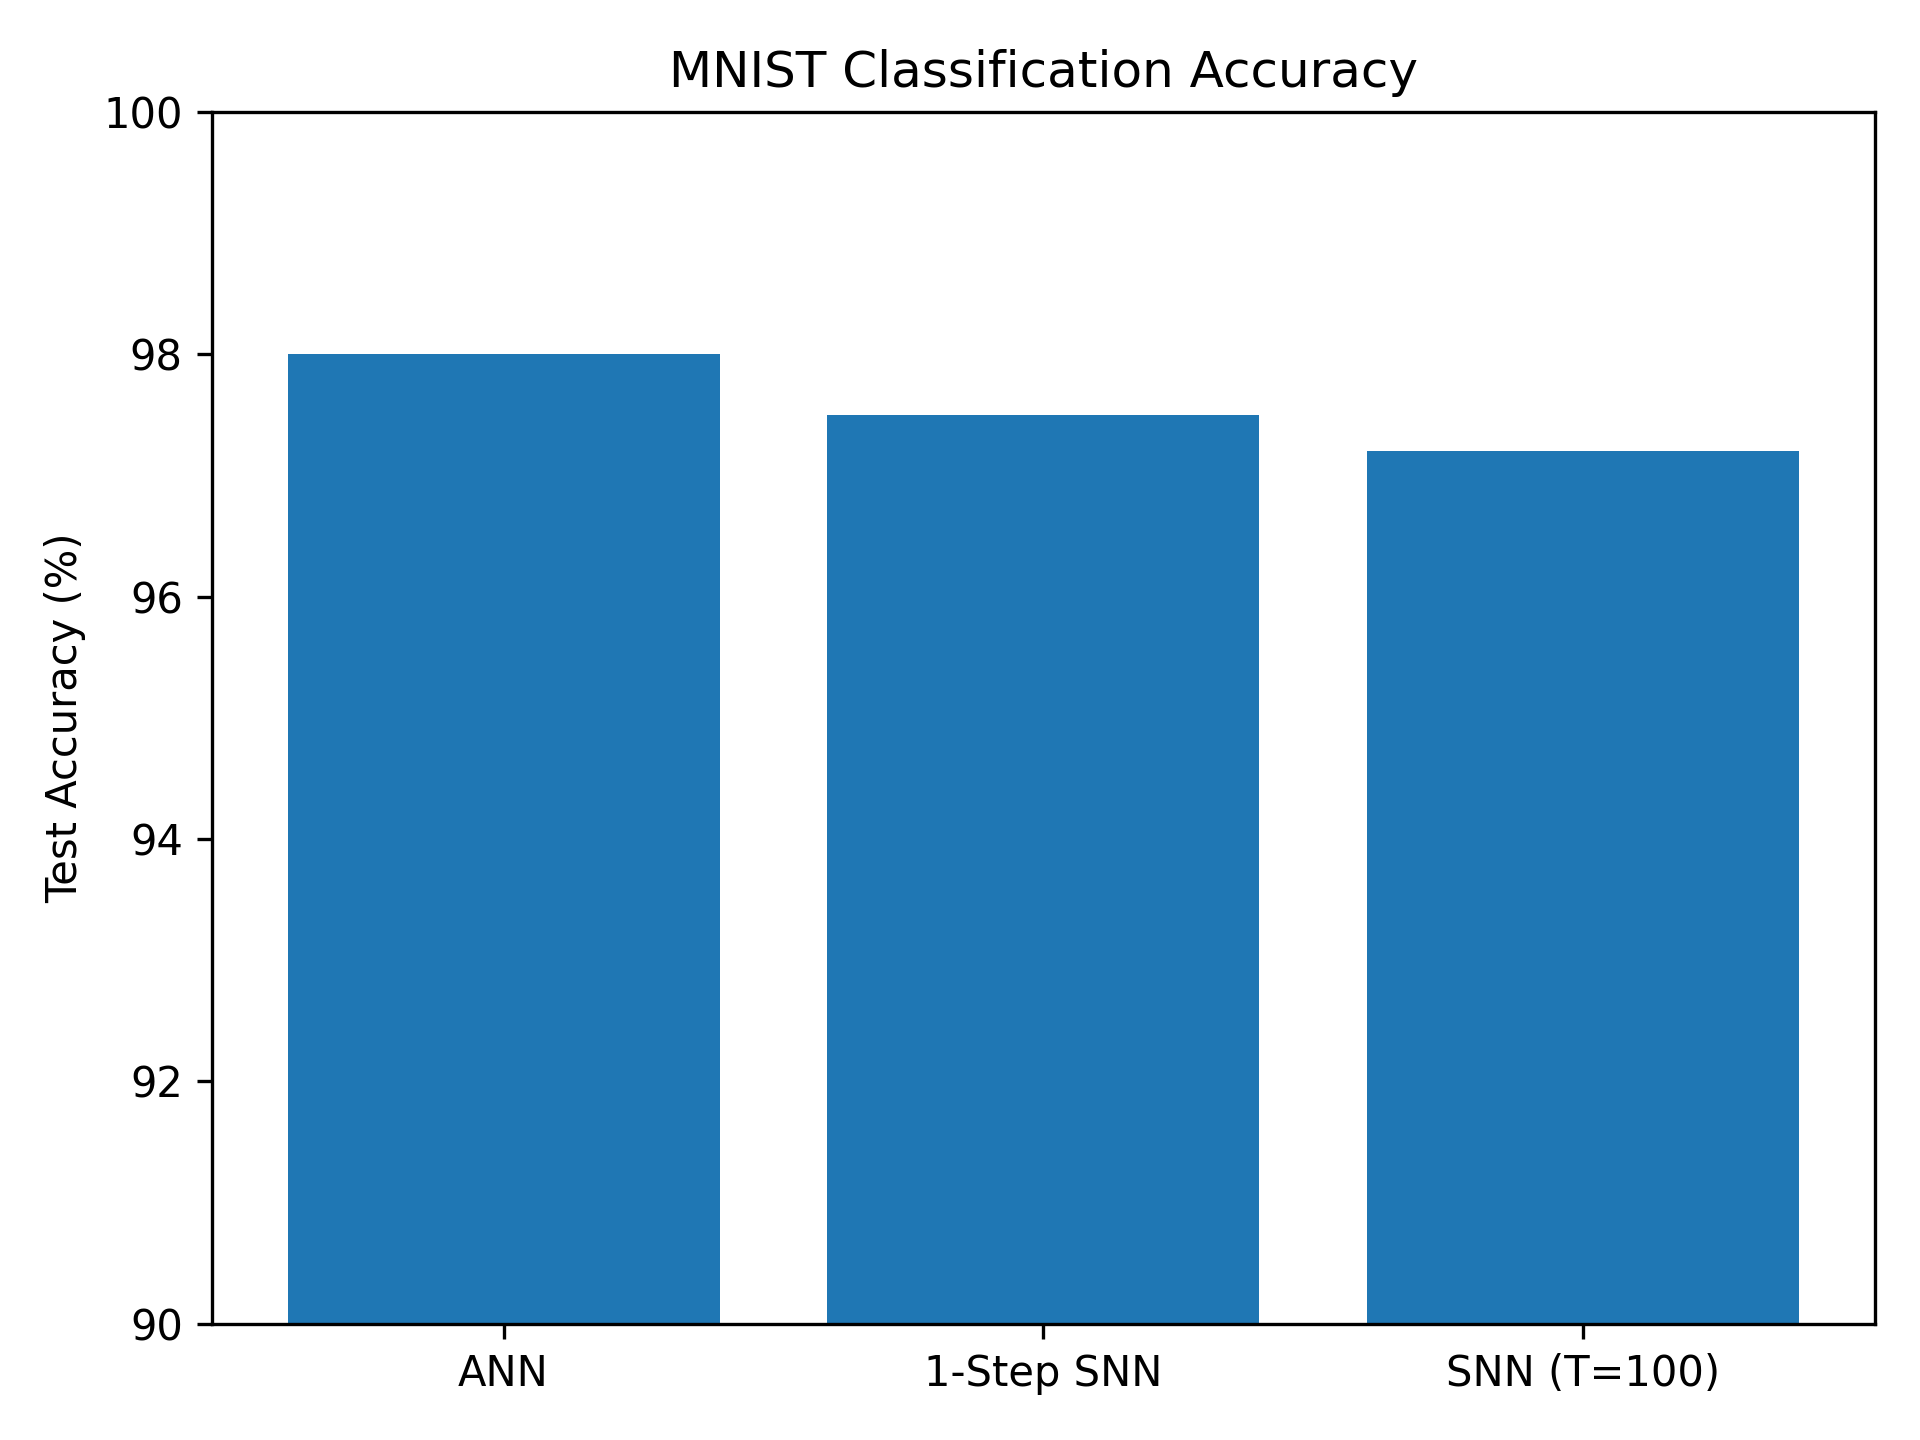
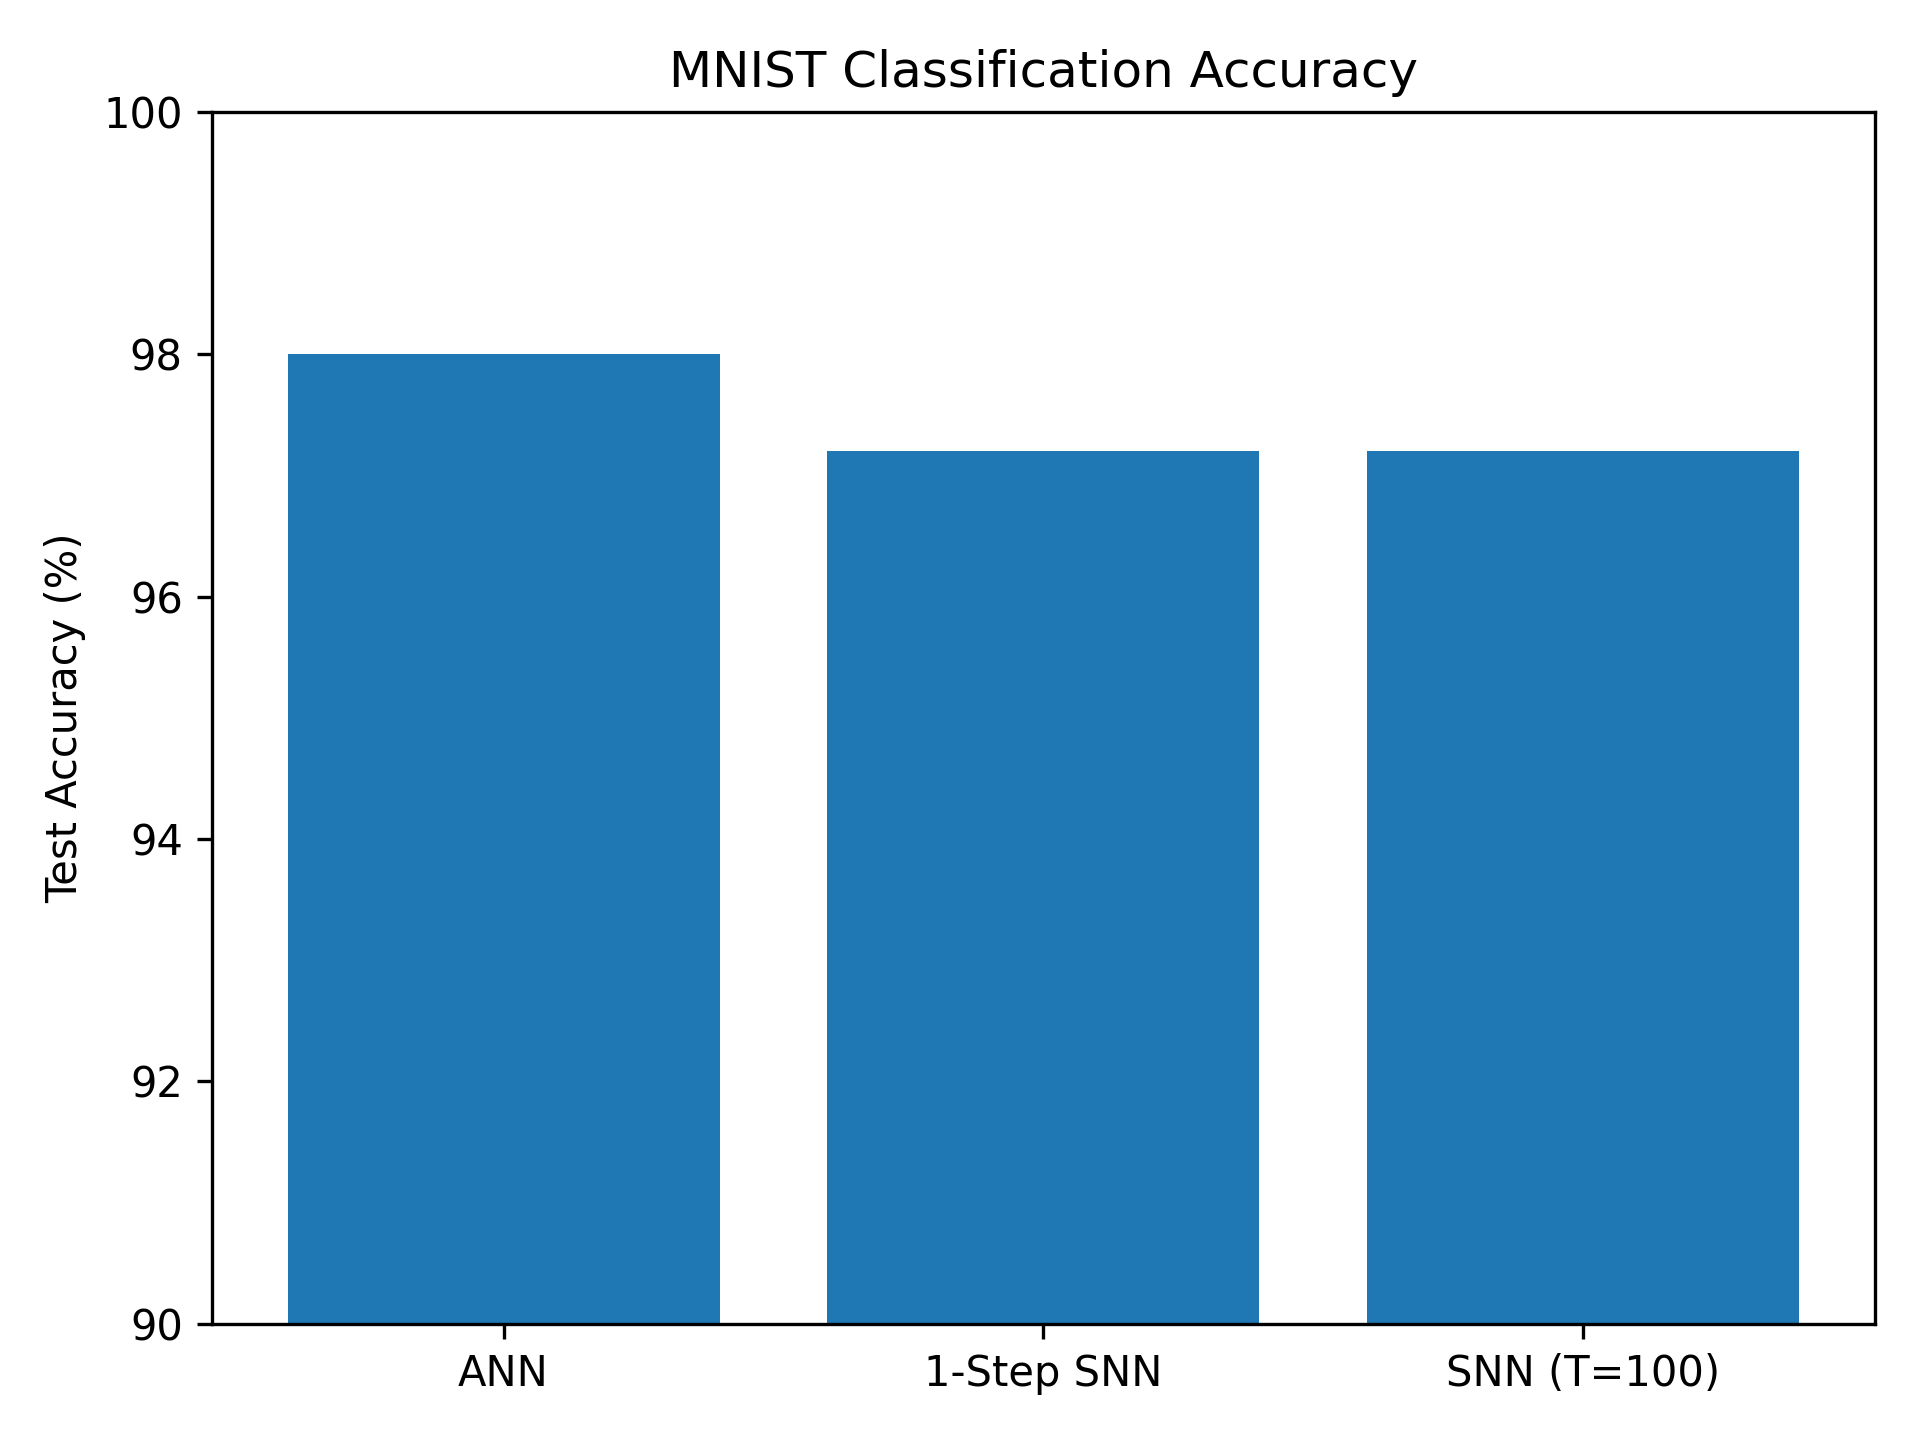
Various graphing code added

Changed region(s): [[0.4062, 0.2812, 0.6562, 0.3125]]

diff --git a/scripts/train_SNN.py b/scripts/train_SNN.py
@@ -4,7 +4,21 @@ from snntorch import spikegen
 from torchvision import datasets, transforms
 from torch.utils.data import DataLoader
 from models.SNN_model import MNIST_SNN
+import random
+import numpy as np
+from pathlib import Path
+import json
 # Imports
+
+PROJECT_ROOT = Path(__file__).resolve().parent.parent
+RESULTS_DIR = PROJECT_ROOT / "results"
+RESULTS_DIR.mkdir(exist_ok=True)
+# Establish data results path
+
+torch.manual_seed(0)
+random.seed(0)
+np.random.seed(0)
+# For higher levels of consistency
 
 """
 Train + evaluate the full SNN.
@@ -60,6 +74,7 @@ optimizer = torch.optim.Adam(
 
 
 def train_SNN(model, training_loader, device, num_epochs, num_steps):
+    epoch_loss = []
     for epoch in range(num_epochs):
         iteration = 0
         model.train()
@@ -84,6 +99,9 @@ def train_SNN(model, training_loader, device, num_epochs, num_steps):
                       f"Batch Loss: {loss_batch.item():.4f}, "
                       f"Mean Loss: {mean_loss:.4f}")
                 # Prints epoch, loss, and iterations after every 50 iterations
+        epoch_mean = sum(loss_total) / len(loss_total)
+        epoch_loss.append(epoch_mean)
+    return epoch_loss   # Returns epoch loss values for plotting
 # Model training script
 
 
@@ -108,7 +126,11 @@ def acc_eval_SNN(model, testing_loader, device, num_steps):
 
 
 if __name__ == "__main__":
-    train_SNN(net, training_loader, device, num_epochs, num_steps)
+    epoch_loss = train_SNN(net, training_loader, device, num_epochs, num_steps)
+    loss_path = RESULTS_DIR / "SNN_loss.json"
+    with loss_path.open("w") as f:
+        json.dump(epoch_loss, f)
+        # For plotting loss
     acc_eval_SNN(net, testing_loader, device, num_steps)
     # Engage testing
     torch.save(net.state_dict(), "SNN_model.pt")

diff --git a/scripts/train_single_step_baseline.py b/scripts/train_single_step_baseline.py
@@ -6,7 +6,14 @@ from torch.utils.data import DataLoader
 import random
 import numpy as np
 from models.MNIST_single_step_SNN_baseline import MNIST_1STEP_SNN
+from pathlib import Path
+import json
 # Establish imports
+
+PROJECT_ROOT = Path(__file__).resolve().parent.parent
+RESULTS_DIR = PROJECT_ROOT / "results"
+RESULTS_DIR.mkdir(exist_ok=True)
+# Establish data results path
 
 torch.manual_seed(0)
 random.seed(0)
@@ -55,6 +62,7 @@ optimizer = torch.optim.Adam(
 
 
 def train_SNN(model, training_loader, device, num_epochs):
+    epoch_loss = []
     for epoch in range(num_epochs):
         iteration = 0
         model.train()
@@ -75,6 +83,9 @@ def train_SNN(model, training_loader, device, num_epochs):
                       f"Batch Loss: {loss_batch.item():.4f}, "
                       f"Mean Loss: {mean_loss:.4f}")
                 # Prints epoch, loss, and iterations after every 50 iterations
+        epoch_mean = sum(loss_total) / len(loss_total)
+        epoch_loss.append(epoch_mean)
+    return epoch_loss   # Returns epoch loss values for plotting
 # Model training script
 
 
@@ -96,10 +107,14 @@ def acc_eval_SNN(model, testing_loader, device):
 # Model overall evaluation script
 
 
+# Engage testing
 if __name__ == "__main__":
-    train_SNN(net, training_loader, device, num_epochs)
+    epoch_loss = train_SNN(net, training_loader, device, num_epochs)
+    loss_path = RESULTS_DIR / "1step_snn_loss.json"
+    with loss_path.open("w") as f:
+        json.dump(epoch_loss, f)
+        # For plotting loss
     acc_eval_SNN(net, testing_loader, device)
-    # Engage testing
     torch.save(net.state_dict(), "mnist_1Step_SNN_baseline.pt")
     print("Single Step SNN Baseline Saved")
     # Save trained Single Step SNN baseline

diff --git a/scripts/train_ANN_baseline.py b/scripts/train_ANN_baseline.py
@@ -6,7 +6,14 @@ from torch.utils.data import DataLoader
 import random
 import numpy as np
 from models.MNIST_ANN_baseline import MNIST_ANN
+from pathlib import Path
+import json
 # Establish imports
+
+PROJECT_ROOT = Path(__file__).resolve().parent.parent
+RESULTS_DIR = PROJECT_ROOT / "results"
+RESULTS_DIR.mkdir(exist_ok=True)
+# Establish data results path
 
 torch.manual_seed(0)
 random.seed(0)
@@ -55,6 +62,7 @@ optimizer = torch.optim.Adam(
 
 
 def train_ANN(model, training_loader, device, num_epochs):
+    epoch_loss = []
     for epoch in range(num_epochs):
         iteration = 0
         model.train()
@@ -75,6 +83,9 @@ def train_ANN(model, training_loader, device, num_epochs):
                       f"Batch Loss: {loss_batch.item():.4f}, "
                       f"Mean Loss: {mean_loss:.4f}")
                 # Prints epoch, loss, and iterations after every 50 iterations
+        epoch_mean = sum(loss_total) / len(loss_total)
+        epoch_loss.append(epoch_mean)
+    return epoch_loss   # Returns epoch loss values for plotting
 # Model training script
 
 
@@ -96,10 +107,14 @@ def acc_eval_ANN(model, testing_loader, device):
 # Model overall evaluation script
 
 
+# Engage testing
 if __name__ == "__main__":
-    train_ANN(net, training_loader, device, num_epochs)
+    epoch_loss = train_ANN(net, training_loader, device, num_epochs)
+    loss_path = RESULTS_DIR / "ANN_loss.json"
+    with loss_path.open("w") as f:
+        json.dump(epoch_loss, f)
+        # For plotting
     acc_eval_ANN(net, testing_loader, device)
-    # Engage testing
     torch.save(net.state_dict(), "mnist_ANN_baseline.pt")
     print("ANN Baseline Saved")
     # Save trained ANN baseline

diff --git a/result_scripts/classification_accuracy.py b/result_scripts/classification_accuracy.py
@@ -2,7 +2,7 @@ import matplotlib.pyplot as plt
 
 # Replace accuracies with your final measured accuracies
 model_names = ["ANN", "1-Step SNN", "SNN (T=100)"]
-accuracies = [0.98, 0.975, 0.972]  # as fractions (0–1)
+accuracies = [0.98, 0.972, 0.972]  # as fractions (0–1)
 
 plt.figure()
 plt.bar(model_names, [a * 100 for a in accuracies])

diff --git a/result_scripts/plot_loss_curves.py b/result_scripts/plot_loss_curves.py
@@ -1,0 +1,1 @@
+import json

diff --git a/README.md b/README.md
@@ -200,7 +200,7 @@ pip install -r requirements.txt
 | Model         | Timesteps | Epochs    | Test Accuracy | Model Type          |
 |---------------|-----------|-----------|---------------|---------------------|
 | ANN           | 1         | 10        | 98.0%         | ReLU ANN            |
-| 1-step SNN    | 1         | 10        | 97–98%        | LIF SNN             |
+| 1-step SNN    | 1         | 10        | 97%           | LIF SNN             |
 | SNN Model     | 100       | 10        | 97%           | LIF SNN             |
 
 ---
